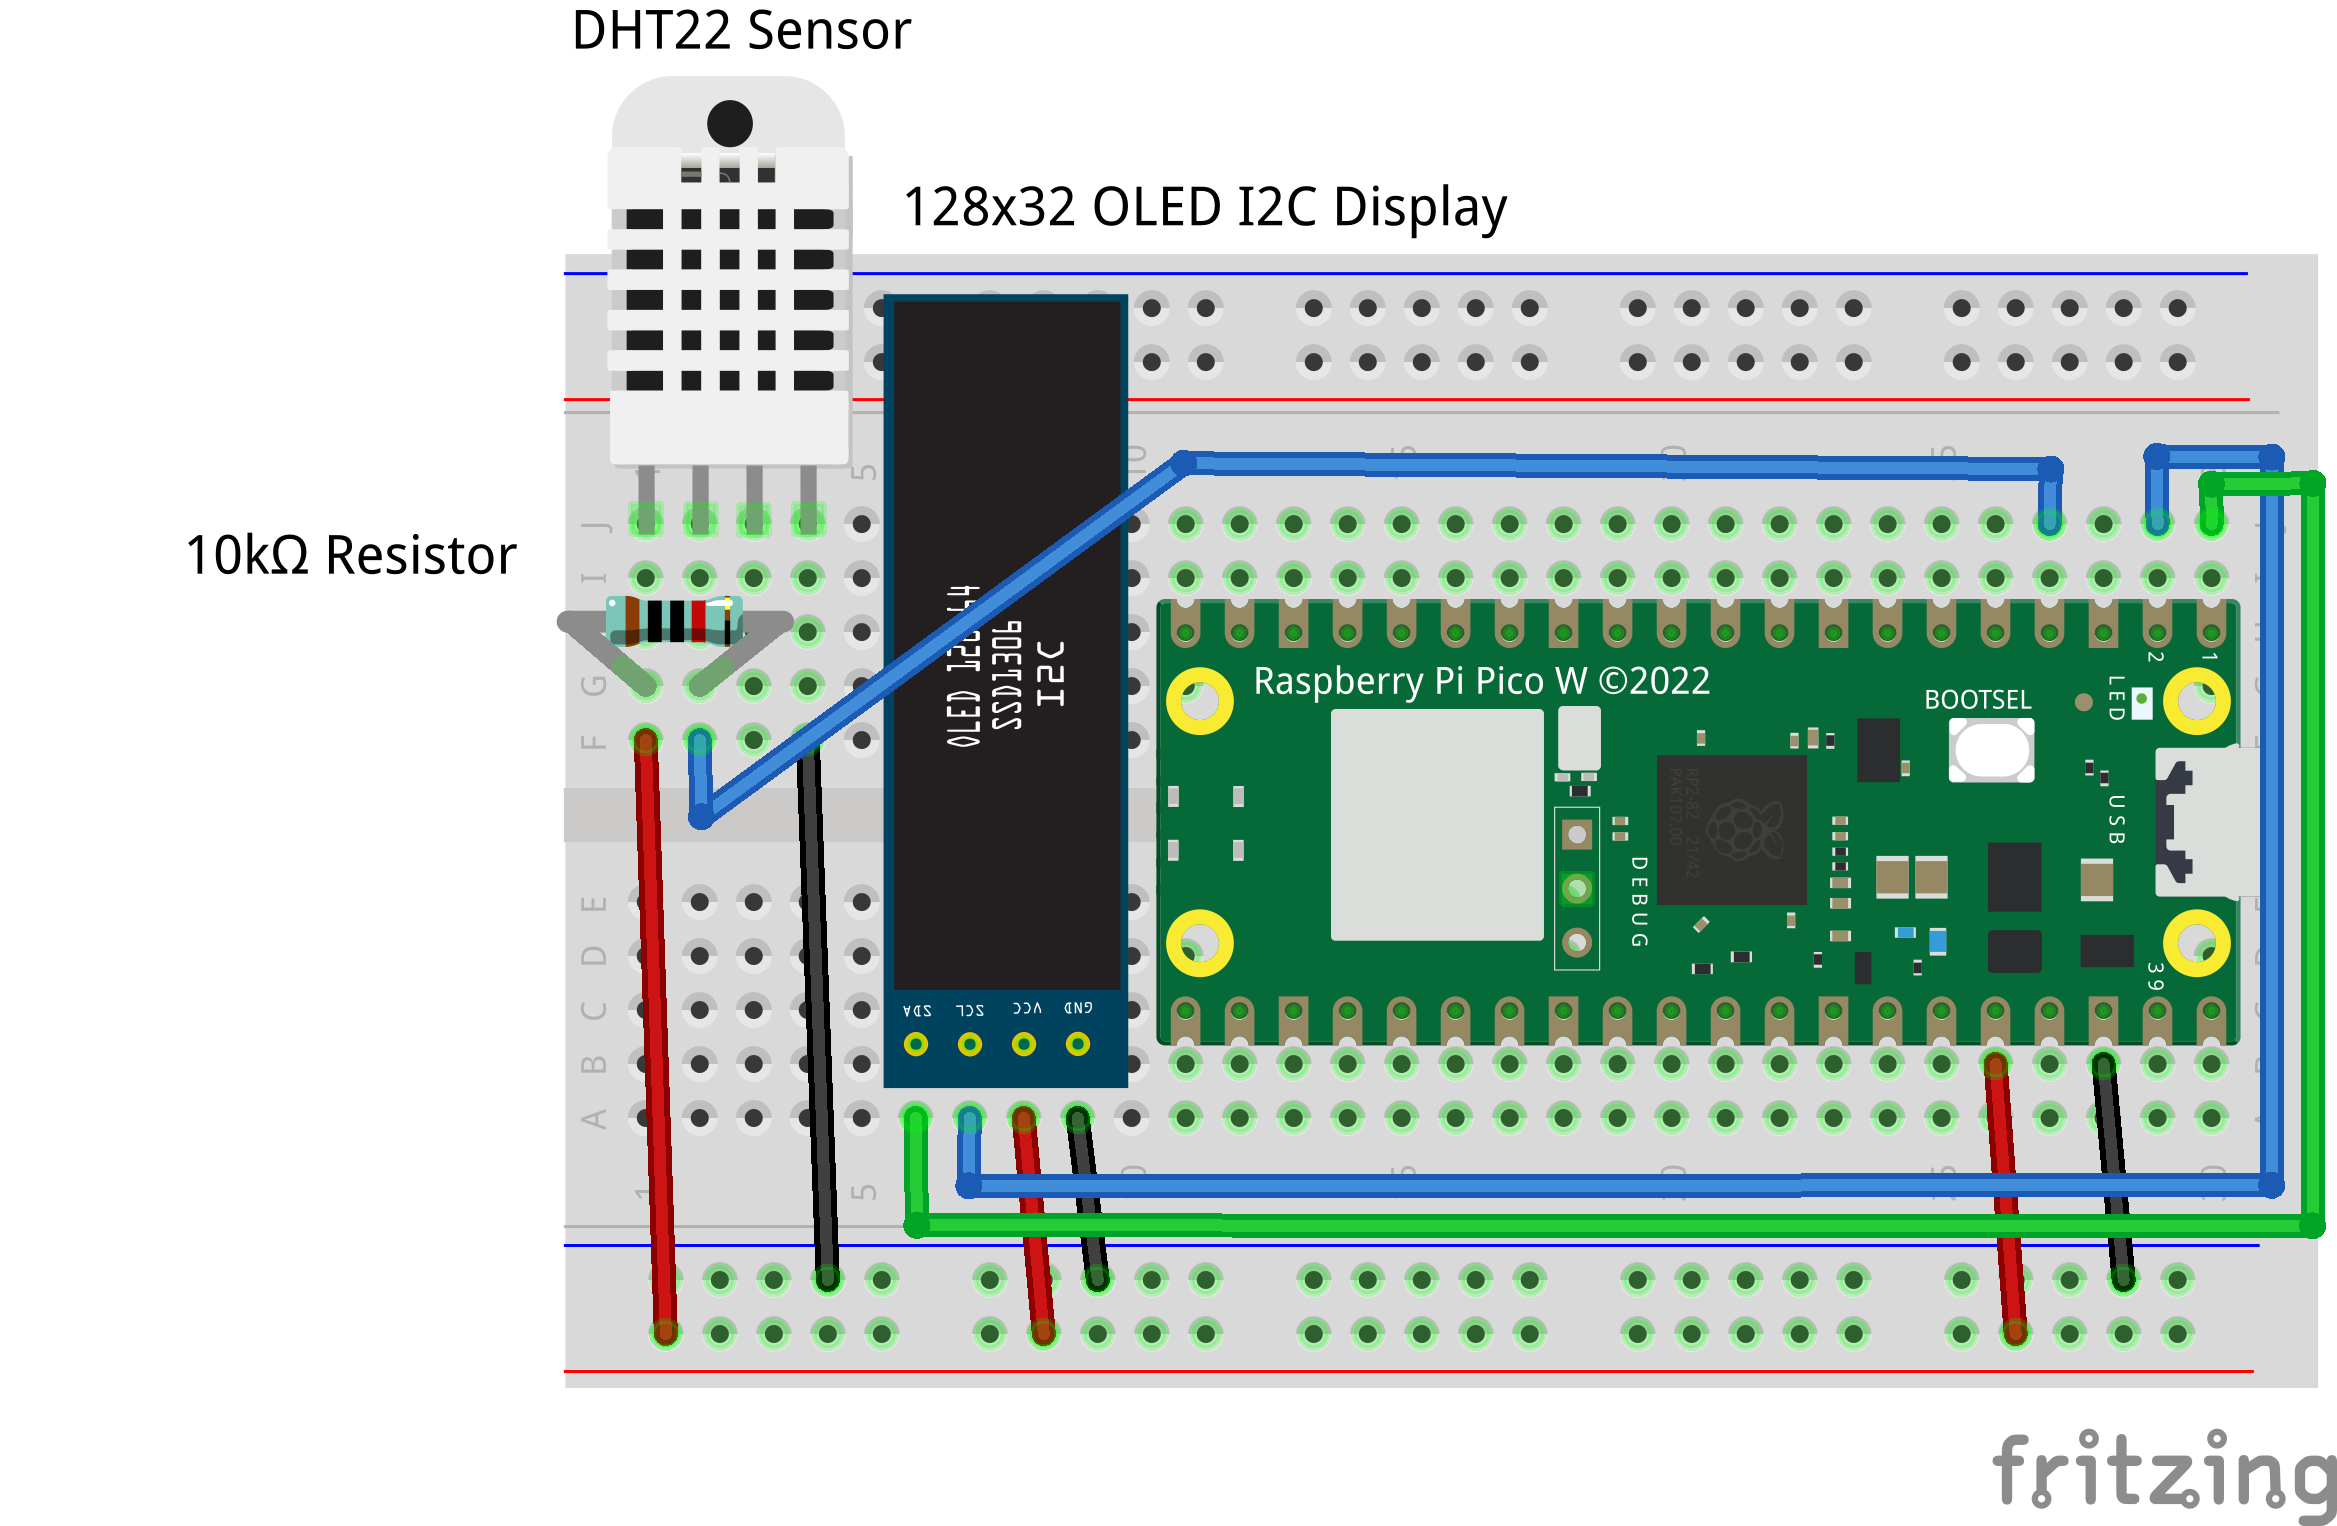
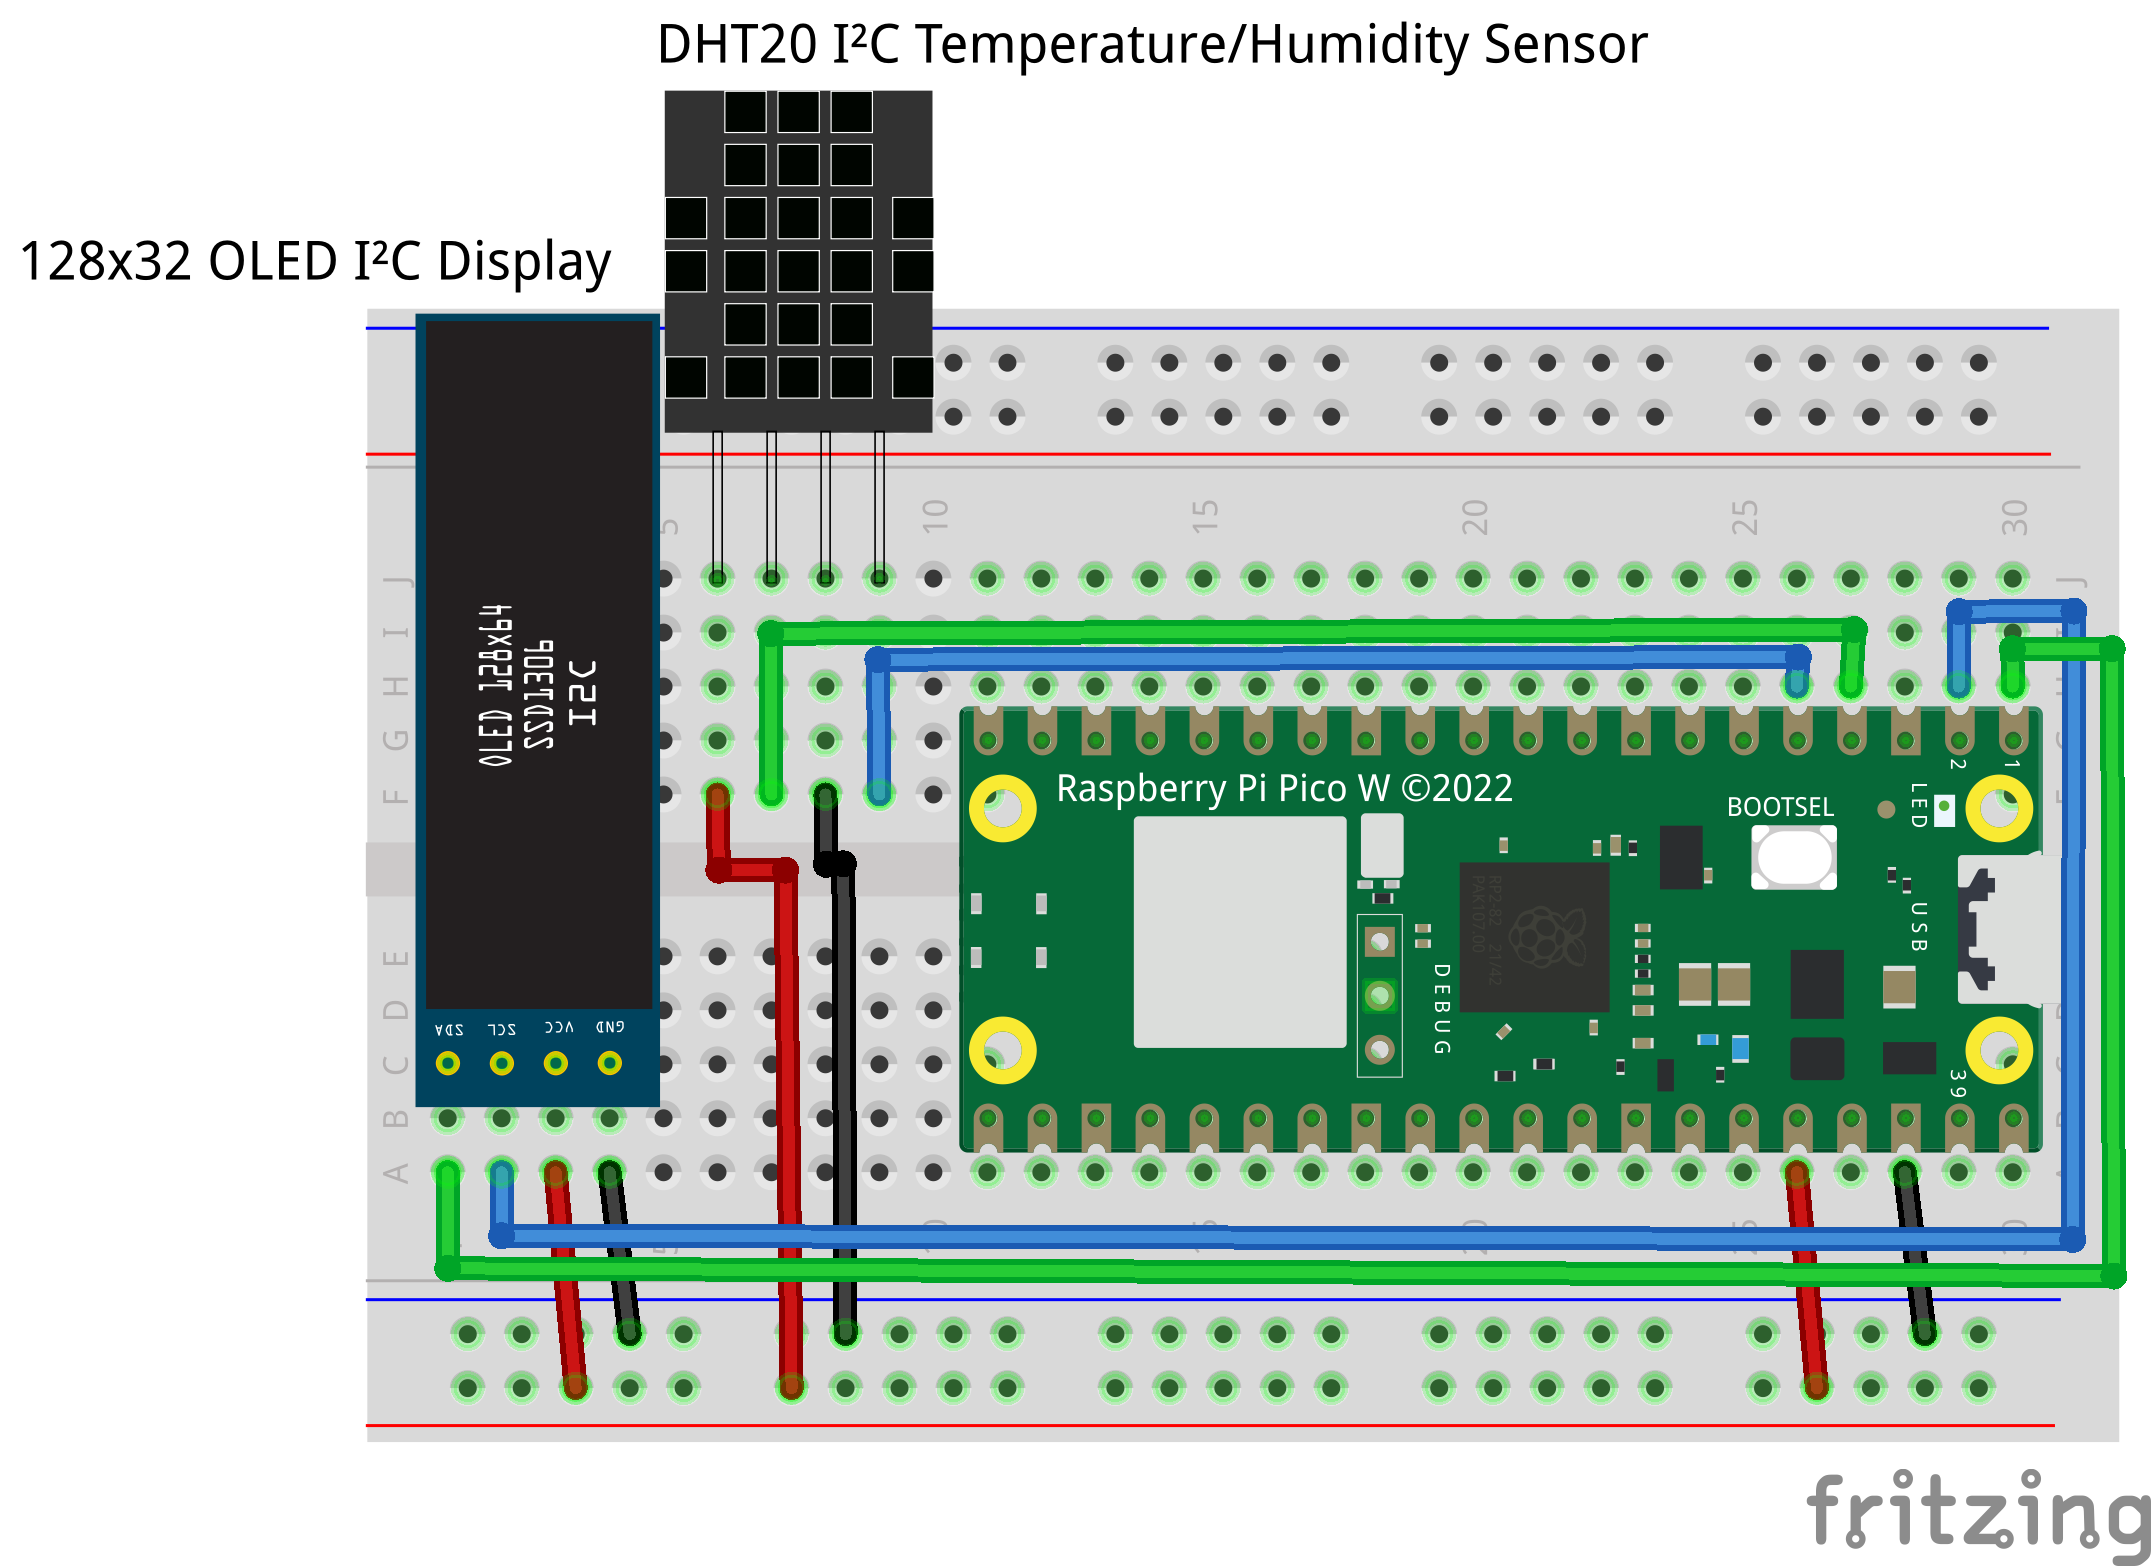
moved diagram to DHT20 and added README guide

diff --git a/README.md b/README.md
@@ -1,6 +1,6 @@
 # PicoTemp
 
-An MQTT based Raspberry Pi Pico W smart home temperature/humidity reader using a dht22 sensor, a 10kΩ resitor and a 32x128 OLED readout.
+An MQTT based Raspberry Pi Pico W smart home temperature/humidity reader using a dht20 sensor, and a 32x128 OLED display.
 
 NOTE: **Make sure that you create a `secrets.py` file before running!**
 
@@ -12,4 +12,35 @@ Here is the layout for the circuit.
 
 ## Guide
 
-WIP.
+### Installing Thonny.
+
+First, download Thonny (a free python IDE) from [https://thonny.org](https://thonny.org/).
+
+### Configuring Thonny.
+
+Now, open the Thonny editor. The first thing you should do is open the settings ( [Tools > Options] ) and open the 'Interpreter' tab. 
+Then change the 'Which interpreter or device should Thonny use for running your code?' dropdown to 'MicroPython (Raspberry Pi Pico)'.
+
+### Updating the Pico W.
+
+It is now time to flash the software for MicroPython to the Raspberry Pi Pico. You can find it at [https://micropython.org/download/rp2-pico-w/](https://micropython.org/download/rp2-pico-w/). Click on the first link under 'Nightly builds'.
+
+Once it is downloaded, plug in the raspberry pi pico while holding the 'BOOTSEL' button on the device. This should create a USB device called 'RPI-RP2'. Copy the downloded '.uf2' file to this USB drive. You should only need to do this once.
+
+### Downloading and customizing the project.
+
+Now it is time to download the code for the pico. It can be downloaded as a zip using [this link](https://github.com/a-h/picotemp/archive/refs/heads/main.zip). Once it is downloaded, extract the contents (on windows, right click and use 'extract' - don't double click!). 
+
+Go back to Thonny and use [File > Open] to open `main.py` from the extracted files. Then use [File > Open] again to open `secrets_example.py`. If it is not already selected, click the `secrets_example.py` tab.
+
+Now, replace the placeholders for the correct data. Once that is done, use [File > Save as...], replace the file name of `secrets_example.py` with `secrets.py` and click save.
+
+### Running the project.
+
+Make sure the pico is plugged in, then in Thonny, press the button labled 'STOP' to connect to the pico, then use [View > Files] which will open a side-panel showing the current folder on top, and the pico's storage below.
+
+If there is anything in the pico's window, right click and press delete until the storage is empty. Now right click on the folder called 'lib' at the top and select 'Copy to /'. This might take a while!
+
+Finally, right click on main.py and click 'Copy to /'. Do this again for secrets.py.
+
+When you unplug the pico and plug it back in, it will run the program.
